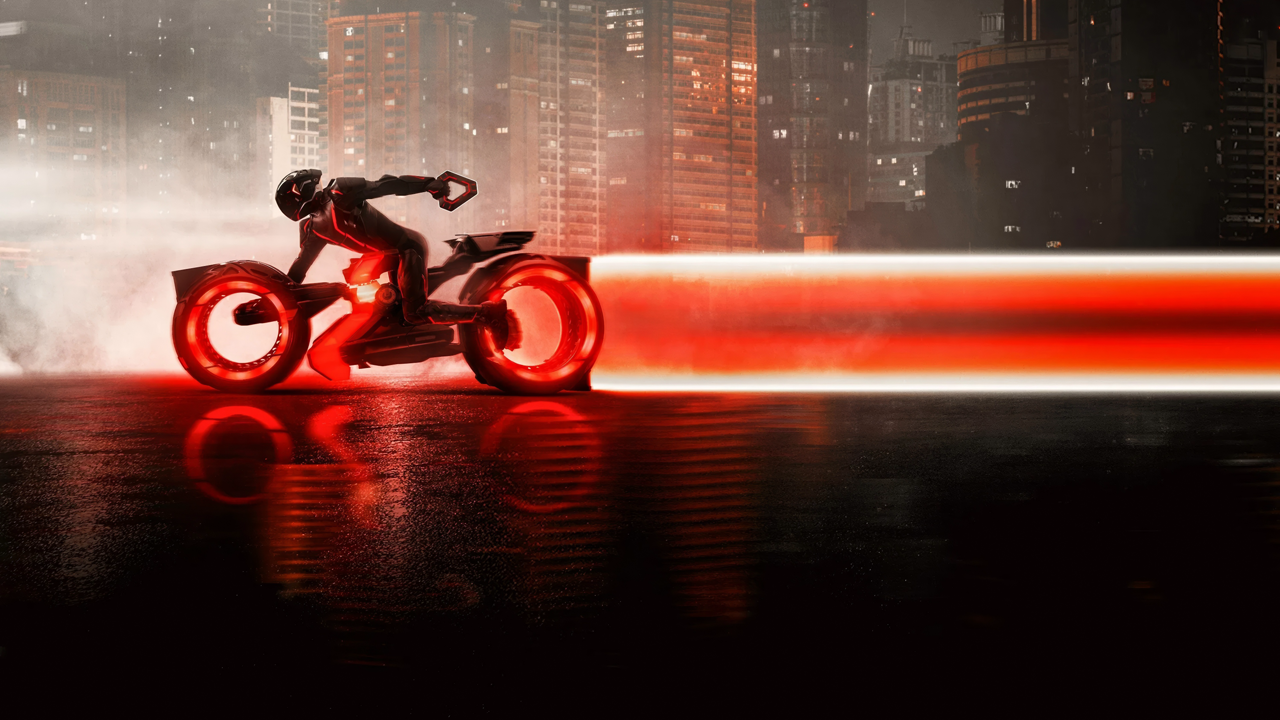
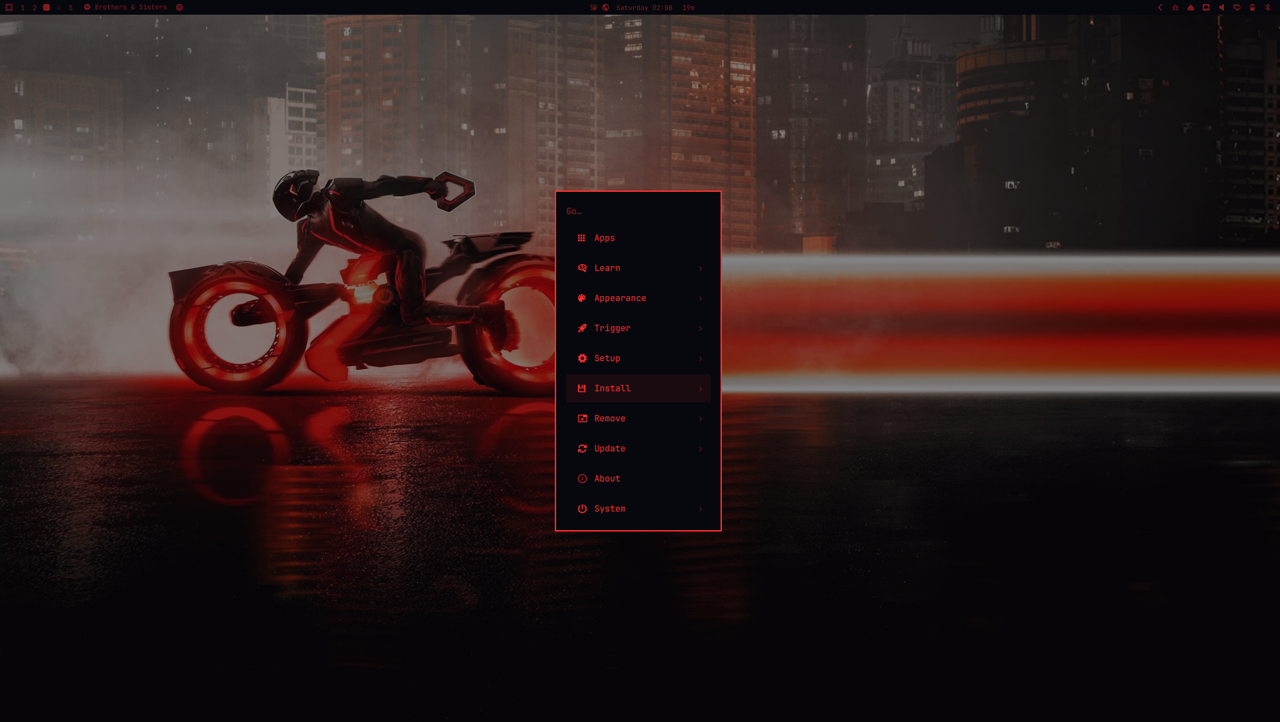
Release: Add screenshots, preview thumbnail, and full README

diff --git a/README.md b/README.md
@@ -2,7 +2,7 @@
 
 # TRON: ARES — OMARCHY THEME
 
-**High-contrast neon red & pure white theme for [Omarchy](https://omarchy.org), inspired by *Tron: Ares* and Dillinger Systems terminals.**
+**High-contrast neon red & pure white theme for Omarchy, inspired by *Tron: Ares* and Dillinger Systems terminals.**
 
 ![License](https://shields.io)
 ![Platform](https://shields.io)
@@ -14,9 +14,12 @@
 
 ## Preview
 
-| Desktop & Launcher | Tiling & Terminal (`btop` / `fastfetch`) |
+### Desktop & Launcher
+![Desktop & Launcher](screenshots/desktop.png)
+
+| Tiling & Terminal (`btop` / `fastfetch`) | Clean Workspace |
 | :---: | :---: |
-| ![Desktop Preview](screenshots/desktop.png) | ![Tiling Preview](screenshots/tiling.png) |
+| ![Tiling Preview](screenshots/tiling.png) | ![Workspace Preview](screenshots/wallpaper.png) |
 
 ---
 
@@ -25,7 +28,7 @@
 Install directly using Omarchy's built-in theme manager:
 
 ```bash
-omarchy-theme-install https://github.com
+omarchy-theme-install https://github.com/AlfonDev/omarchy-tron-ares-theme
 ```
 
 Once installed, apply the theme from the Omarchy menu (**`Super + Alt + Space`** → *Style* → *Theme* → **`tron-ares`**) or via terminal:
@@ -67,5 +70,5 @@ Comes bundled with **5 high-resolution *Tron: Ares* wallpapers** inside `backgro
 ---
 
 <div align="center">
-  <sub>Created by <a href="https://github.com">AlfonDev</a> for the Omarchy community.</sub>
+  <sub>Created by <a href="https://github.com/AlfonDev">AlfonDev</a> for the Omarchy community.</sub>
 </div>
